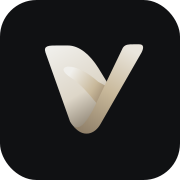
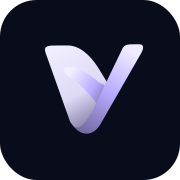
Bring VEYRA night gallery design to Django

Changed region(s): [[0.2778, 0.2222, 0.8056, 0.75]]

diff --git a/hi/static/hi/night.css b/hi/static/hi/night.css
@@ -1,0 +1,88 @@
+/* VEYRA: night-city atmosphere. Keep media and controls in their original DOM. */
+:root {
+  --bg:#090d1b; --surface:#141727; --surface-raised:#1d2134;
+  --border:#303349; --border-strong:#4a4d66; --text:#f2efff;
+  --text-muted:#b2b1c4; --text-subtle:#a09fb5; --accent:#b8abff;
+  --accent-hover:#d3caff; --success-bg:#1c2732; --success-border:#465f65;
+  --success-text:#d7e8e3; --info-bg:#1c2135; --info-border:#444963; --info-text:#e2e0f5;
+}
+body { background:var(--bg); position:relative; isolation:isolate; }
+body:not(.veyra-management)::before {
+  content:""; position:fixed; inset:-18%; z-index:-1; pointer-events:none;
+  background:radial-gradient(ellipse at 12% 12%, #30245576, transparent 35%),
+    radial-gradient(ellipse at 86% 43%, #12324b60, transparent 34%),
+    radial-gradient(ellipse at 36% 90%, #2c1b4050, transparent 37%);
+  animation:night-light 24s ease-in-out infinite alternate;
+}
+@keyframes night-light { to { transform:translate3d(2%, 1%, 0) scale(1.04); } }
+.sidebar,.topbar,.mobile-nav { background-color:#0e1220; }
+.sidebar { border-color:#282c41; }
+.side-link.active,.management-link.active { color:#dfd9ff; background:#292744; }
+.side-link:hover,.management-link:hover { background:#20243a; }
+.btn-primary { background:#ddd6ff; border-color:transparent; color:#151426; }
+.btn-primary:hover { background:#f0ecff; color:#151426; }
+.btn-secondary:hover { background:#262942; border-color:#6c668e; }
+.heading-dot,.filled-star { color:var(--accent); }
+.feed-header { padding:42px 0 34px; margin-bottom:28px; border-color:#ffffff20; }
+.feed-header .eyebrow { color:#b8abff; letter-spacing:.2em; }
+.feed-header h1 { font-size:clamp(42px,5vw,72px); font-weight:450; letter-spacing:-.045em; }
+.feed-header p { color:var(--text-muted); }
+.section-heading { margin-bottom:24px; }
+.media-grid { grid-template-columns:repeat(3,minmax(0,1fr)); gap:36px 20px; align-items:start; }
+.media-card { overflow:visible; }
+.media-card .media-content { border-radius:3px; box-shadow:0 20px 64px #28224e35; }
+.media-card .media-image-link,.media-card .audio-player,.media-card .media-file,
+.media-card .media-player:not(.audio-player) { aspect-ratio:4/3; }
+.media-card:nth-child(7n+1) { grid-column:span 2; }
+.media-card:nth-child(7n+1) .media-image-link,
+.media-card:nth-child(7n+1) .audio-player,.media-card:nth-child(7n+1) .media-file,
+.media-card:nth-child(7n+1) .media-player:not(.audio-player) { aspect-ratio:16/10; }
+.media-card:nth-child(7n+3) .media-image-link,
+.media-card:nth-child(7n+3) .audio-player,.media-card:nth-child(7n+3) .media-file,
+.media-card:nth-child(7n+3) .media-player:not(.audio-player) { aspect-ratio:4/5; }
+.media-card .media-image-link .post-media-image { object-fit:cover; }
+.media-card .media-player:not(.audio-player) video { width:100%; }
+.media-card .media-body { padding:14px 0 0; }
+.media-card .media-body h3 { font-size:15px; font-weight:550; }
+.media-card .media-author strong,.media-card .media-author time { color:var(--text-muted); }
+.media-card .media-card-footer { padding-top:10px; }
+@media (hover:hover) and (pointer:fine) {
+  .media-image-link:hover .post-media-image { transform:scale(1.025); }
+  .media-card:hover .media-content { box-shadow:0 20px 70px #8c75c429; }
+}
+.will-reveal { transition:opacity .65s ease,transform .65s cubic-bezier(.22,1,.36,1); }
+.post-picture { box-shadow:0 0 100px #6760a323; }
+.brand-name, #branding .admin-brand > .brand-name { color:#f2efff; }
+.logo:hover .brand-name, #branding .admin-brand:hover .brand-name { color:#d3caff; }
+/* Management stays still and highly legible. */
+.veyra-management { background:#0c101c; }
+.management-panel,.management-stat { background:#161a2a; }
+.management-stat:hover { background:#202439; }
+.management-table thead,.management-search,.management-toolbar select,.management-bulk select { background:#101423; }
+.management-table tbody tr:hover { background:#202439; }
+.management-tabs a.active,.management-stat > .icon,.text-action { color:#c5baff; }
+.status-pill { color:#d1c9ff; background:#302d49; }
+.status-pill.draft { color:#c2c1cf; background:#292b39; }
+@media(max-width:1100px) {
+  .media-grid { grid-template-columns:repeat(2,minmax(0,1fr)); }
+}
+@media(max-width:760px) {
+  .feed-header { padding:20px 0 25px; }
+  .feed-header h1 { font-size:42px; }
+  .media-grid { grid-template-columns:minmax(0,1fr); gap:30px; }
+  .media-card:nth-child(7n+1) { grid-column:auto; }
+  .media-card:nth-child(7n+1) .media-image-link,
+  .media-card:nth-child(7n+1) .audio-player,.media-card:nth-child(7n+1) .media-file,
+  .media-card:nth-child(7n+1) .media-player:not(.audio-player) { aspect-ratio:4/3; }
+  .media-card:nth-child(7n+3) .media-image-link,
+  .media-card:nth-child(7n+3) .audio-player,.media-card:nth-child(7n+3) .media-file,
+  .media-card:nth-child(7n+3) .media-player:not(.audio-player) { aspect-ratio:4/3; }
+  .mobile-nav { background:#101423f5; }
+}
+@media(prefers-reduced-motion:reduce) {
+  body::before { animation:none !important; }
+  .will-reveal { transition:none; }
+}
+.language-indicator { background:#b8abff; }
+.language-track button[aria-pressed="true"] { color:#151426; }
+.avatar-letter { background:#343049; color:#e3dcff; }

diff --git a/hi/static/hi/admin-night.css b/hi/static/hi/admin-night.css
@@ -1,0 +1,30 @@
+/* Native Django administration: the gallery's palette without motion. */
+:root,html[data-theme="light"],html[data-theme="dark"] {
+ --primary:#b8abff; --accent:#b8abff; --body-bg:#0c101c; --body-fg:#f2efff;
+ --body-quiet-color:#b2b1c4; --body-loud-color:#f2efff; --link-fg:#c5baff;
+ --link-hover-color:#e0d9ff; --link-selected-fg:#e0d9ff; --hairline-color:#303349;
+ --border-color:#303349; --button-bg:#ddd6ff; --button-hover-bg:#f0ecff;
+ --default-button-bg:#ddd6ff; --default-button-hover-bg:#f0ecff;
+ --object-tools-bg:#ddd6ff; --object-tools-hover-bg:#f0ecff;
+ --button-fg:#151426; --object-tools-fg:#151426; --selected-bg:#292744;
+ --selected-row:#24253b; --darkened-bg:#161a2a;
+}
+body,#container,#content { background:#0c101c; color:#f2efff; }
+#header,.native-management-nav,#nav-sidebar { background:#101423; border-color:#303349; }
+div.breadcrumbs,.module,.submit-row,#toolbar,#changelist .actions,#changelist .paginator,#changelist-filter { background:#161a2a; border-color:#303349; }
+.module h2,.module caption,.inline-group h2,#changelist table thead th,#changelist-filter h2 { background:#202439; color:#e8e5fa; }
+#changelist table tbody tr { background:#161a2a; }
+#changelist table tbody tr:hover { background:#202439; }
+#changelist table tbody td,#changelist table tbody th { border-color:#303349; }
+input[type="text"],input[type="password"],input[type="email"],input[type="number"],input[type="url"],textarea,select { background:#101423; color:#f2efff; border-color:#4a4d66; }
+.gallery-admin-card,.gallery-admin-panel { background:#161a2a; }
+.gallery-admin-card:hover { background:#202439; }
+.gallery-admin-cta { background:#ddd6ff; color:#151426 !important; }
+.gallery-admin-cta:hover { background:#f0ecff; }
+.gallery-admin-card > .icon,.gallery-admin-disclosure { color:#b8abff; }
+.gallery-admin-card h2 a { color:#f2efff; }
+.gallery-admin-panel-heading,.gallery-admin-model,.gallery-admin-additional[open] > summary { border-color:#303349; }
+.native-management-nav .management-link.active { color:#e0d9ff; background:#292744; }
+.native-management-nav .management-link:hover { background:#202439; }
+.language-indicator { background:#b8abff; }
+.language-track button[aria-pressed="true"] { color:#151426; }

diff --git a/hi/templates/hi/auth_base.html b/hi/templates/hi/auth_base.html
@@ -1,5 +1,5 @@
 {% extends 'hi/base.html' %}{% load static i18n %}
 {% block content %}<div class="auth-layout">
-<aside class="auth-story"><span class="eyebrow">{% translate 'ЛИЧНОЕ ПРОСТРАНСТВО' %}</span><h1>{% translate 'Меньше шума.' %}<br><span>{% translate 'Больше вашего.' %}</span></h1><p>{% translate 'Фото, видео и впечатления, которыми хочется поделиться.' %}</p><div class="auth-editorial" aria-hidden="true"><img class="auth-brand-art" src="{% static 'hi/brand/mark.svg' %}" width="128" height="128" alt=""><p>VEYRA<span>— {% translate 'сохраните главное' %}</span></p></div><span class="story-footnote"><span class="status-dot"></span>{% translate 'Ваша коллекция начинается здесь.' %}</span></aside>
+<aside class="auth-story"><span class="eyebrow">{% translate 'ЛИЧНОЕ ПРОСТРАНСТВО' %}</span><h1>{% translate 'Меньше шума.' %}<br><span>{% translate 'Больше вашего.' %}</span></h1><p>{% translate 'Фото, видео и впечатления, которыми хочется поделиться.' %}</p><div class="auth-editorial" aria-hidden="true"><img class="auth-brand-art" src="{% static 'hi/brand/mark.svg' %}?v=27" width="128" height="128" alt=""><p>VEYRA<span>— {% translate 'сохраните главное' %}</span></p></div><span class="story-footnote"><span class="status-dot"></span>{% translate 'Ваша коллекция начинается здесь.' %}</span></aside>
 <section class="auth-panel" aria-labelledby="auth-heading">{% block auth_content %}{% endblock %}</section>
 </div>{% endblock %}

diff --git a/hi/templates/hi/error.html b/hi/templates/hi/error.html
@@ -1,2 +1,2 @@
 {% load static i18n %}{% get_current_language as language_code %}
-<!DOCTYPE html><html lang="{{ language_code|slice:':2' }}"><head><meta charset="utf-8"><meta name="viewport" content="width=device-width,initial-scale=1"><title>{{ code }} — VEYRA</title><link rel="stylesheet" href="{% static 'hi/style.css' %}?v=26">{% include 'hi/brand_meta.html' %}<link rel="stylesheet" href="{% static 'hi/brand.css' %}?v=26"></head><body class="error-page"><main><a class="logo" href="{% url 'home' %}">{% include 'hi/brand.html' %}</a><p class="error-code">{{ code }}</p><h1>{{ title }}</h1><p>{{ description }}</p><div><a class="btn-primary" href="{% url 'home' %}">{% translate 'К коллекции' %} →</a><a class="btn-secondary" href="{% url 'login' %}">{% translate 'Войти' %}</a></div></main></body></html>
+<!DOCTYPE html><html lang="{{ language_code|slice:':2' }}"><head><meta charset="utf-8"><meta name="viewport" content="width=device-width,initial-scale=1"><title>{{ code }} — VEYRA</title><link rel="stylesheet" href="{% static 'hi/style.css' %}?v=26">{% include 'hi/brand_meta.html' %}<link rel="stylesheet" href="{% static 'hi/brand.css' %}?v=26"><link rel="stylesheet" href="{% static 'hi/night.css' %}?v=27"></head><body class="error-page"><main><a class="logo" href="{% url 'home' %}">{% include 'hi/brand.html' %}</a><p class="error-code">{{ code }}</p><h1>{{ title }}</h1><p>{{ description }}</p><div><a class="btn-primary" href="{% url 'home' %}">{% translate 'К коллекции' %} →</a><a class="btn-secondary" href="{% url 'login' %}">{% translate 'Войти' %}</a></div></main></body></html>

diff --git a/hi/templates/hi/base.html b/hi/templates/hi/base.html
@@ -2,15 +2,16 @@
 <!DOCTYPE html>
 <html lang="{{ language_code|slice:':2' }}">
 <head>
-    <meta charset="UTF-8"><meta name="viewport" content="width=device-width, initial-scale=1.0"><meta name="theme-color" content="#101113">
+    <meta charset="UTF-8"><meta name="viewport" content="width=device-width, initial-scale=1.0"><meta name="theme-color" content="#090d1b">
     <title>{% block title %}VEYRA{% endblock %}</title>
     <link rel="stylesheet" href="{% static 'hi/style.css' %}?v=26">
     {% include 'hi/brand_meta.html' %}
     <link rel="stylesheet" href="{% static 'hi/brand.css' %}?v=26">
     {% block extra_styles %}{% endblock %}
+    <link rel="stylesheet" href="{% static 'hi/night.css' %}?v=27">
     <script src="{% static 'hi/site.js' %}?v=24" defer></script>
 </head>
-<body class="{% if user.is_authenticated %}signed-in{% else %}guest{% endif %}">
+<body class="{% if user.is_authenticated %}signed-in{% else %}guest{% endif %} {% block body_class %}{% endblock %}">
 {% include 'hi/icons.html' %}
 <a class="skip-link" href="#main-content">{% translate 'Перейти к содержимому' %}</a>
 {% if user.is_authenticated %}

diff --git a/hi/templates/hi/management_base.html b/hi/templates/hi/management_base.html
@@ -1,4 +1,5 @@
 {% extends 'hi/base.html' %}{% load static i18n %}
+{% block body_class %}veyra-management{% endblock %}
 {% block extra_styles %}<link rel="stylesheet" href="{% static 'hi/management.css' %}?v=26">{% endblock %}
 {% block sidebar %}<aside class="sidebar management-sidebar"><a href="{% url 'dashboard' %}" class="logo">{% include 'hi/brand.html' %}</a><span class="management-caption">{% translate 'УПРАВЛЕНИЕ' %}</span>{% include 'hi/management_nav.html' %}<div class="sidebar-account"><a href="{% url 'profile' %}" class="account-identity">{% include 'hi/avatar.html' with account=user avatar_class='avatar-letter' %}<span>{{ user.first_name|default:user.username }}<small>{% translate 'Администратор' %}</small></span></a><form method="post" action="{% url 'logout' %}" class="logout-form">{% csrf_token %}<button type="submit" class="quiet-link">{% translate 'Выйти' %} →</button></form></div></aside>{% endblock %}
 {% block topbar_context %}<span class="desktop-context management-breadcrumb">{% translate 'Панель управления' %}<span>/</span>{{ section_title }}</span>{% endblock %}

diff --git a/hi/templates/admin/base_site.html b/hi/templates/admin/base_site.html
@@ -1,5 +1,5 @@
 {% extends 'admin/base_site.html' %}{% load static i18n %}
-{% block extrastyle %}{{ block.super }}<link rel="stylesheet" href="{% static 'hi/management.css' %}?v=26"><link rel="stylesheet" href="{% static 'hi/admin.css' %}?v=26"><script src="{% static 'hi/site.js' %}?v=24" defer></script>{% endblock %}
+{% block extrastyle %}{{ block.super }}<link rel="stylesheet" href="{% static 'hi/management.css' %}?v=26"><link rel="stylesheet" href="{% static 'hi/admin.css' %}?v=26"><link rel="stylesheet" href="{% static 'hi/admin-night.css' %}?v=27"><script src="{% static 'hi/site.js' %}?v=24" defer></script>{% endblock %}
 {% block extrahead %}{{ block.super }}{% include 'hi/brand_meta.html' %}<link rel="stylesheet" href="{% static 'hi/brand.css' %}?v=26">{% endblock %}
 {% block nav-sidebar %}{% if user.is_staff %}<aside class="native-management-nav">{% include 'hi/management_nav.html' %}</aside>{% endif %}{% endblock %}
 {% block branding %}{% include 'hi/icons.html' %}<a class="admin-brand" href="{% url 'dashboard' %}">{% include 'hi/brand.html' %} <small>{% translate 'Управление' %}</small></a>{% endblock %}

diff --git a/hi/templates/hi/brand_meta.html b/hi/templates/hi/brand_meta.html
@@ -1,1 +1,1 @@
-{% load static %}<link rel="icon" type="image/svg+xml" href="{% static 'hi/brand/icon.svg' %}?v=26"><link rel="icon" type="image/png" sizes="32x32" href="{% static 'hi/brand/favicon-32.png' %}?v=26"><link rel="apple-touch-icon" sizes="180x180" href="{% static 'hi/brand/apple-touch-icon.png' %}?v=26"><meta name="application-name" content="VEYRA"><meta name="apple-mobile-web-app-title" content="VEYRA">
+{% load static %}<link rel="icon" type="image/svg+xml" href="{% static 'hi/brand/icon.svg' %}?v=27"><link rel="icon" type="image/png" sizes="32x32" href="{% static 'hi/brand/favicon-32.png' %}?v=27"><link rel="apple-touch-icon" sizes="180x180" href="{% static 'hi/brand/apple-touch-icon.png' %}?v=27"><meta name="application-name" content="VEYRA"><meta name="apple-mobile-web-app-title" content="VEYRA">

diff --git a/hi/static/hi/sw.js b/hi/static/hi/sw.js
@@ -1,5 +1,5 @@
 // Only cache versioned static assets. Never cache account pages, locale catalogs or API data.
-const CACHE_NAME='veyra-static-v26';
+const CACHE_NAME='veyra-static-v27';
 self.addEventListener('install',()=>self.skipWaiting());
 self.addEventListener('activate',event=>event.waitUntil(caches.keys().then(keys=>Promise.all(keys.filter(key=>key.startsWith('media-app-')||(key.startsWith('mysite-static-')||key.startsWith('veyra-static-'))&&key!==CACHE_NAME).map(key=>caches.delete(key)))).then(()=>self.clients.claim())));
 self.addEventListener('fetch',event=>{

diff --git a/hi/templates/hi/brand.html b/hi/templates/hi/brand.html
@@ -1,1 +1,1 @@
-{% load static %}<img class="brand-mark" src="{% static 'hi/brand/mark.svg' %}?v=26" width="36" height="36" alt="" aria-hidden="true"><span class="brand-name">VEYRA</span>
+{% load static %}<img class="brand-mark" src="{% static 'hi/brand/mark.svg' %}?v=27" width="36" height="36" alt="" aria-hidden="true"><span class="brand-name">VEYRA</span>

diff --git a/README.md b/README.md
@@ -357,3 +357,11 @@ general-page cases and 88 native-admin/management cases, including limited staff
 permissions, keyboard navigation, icons, JavaScript exceptions and page overflow.
 Screenshots were inspected on desktop and mobile widths. Physical-device checks
 and codec support in Safari remain outside this browser run.
+
+## Night-city theme
+
+VEYRA's night theme uses a subtle animated light background on gallery pages,
+varied gallery tile sizes and a still, readable violet-toned administration.
+Reduced-motion settings disable ambient movement and reveal transitions. Media
+playback, hover previews, permissions and upload handling are unchanged. Grid
+thumbnails crop to their frame; the publication page keeps the full image.
